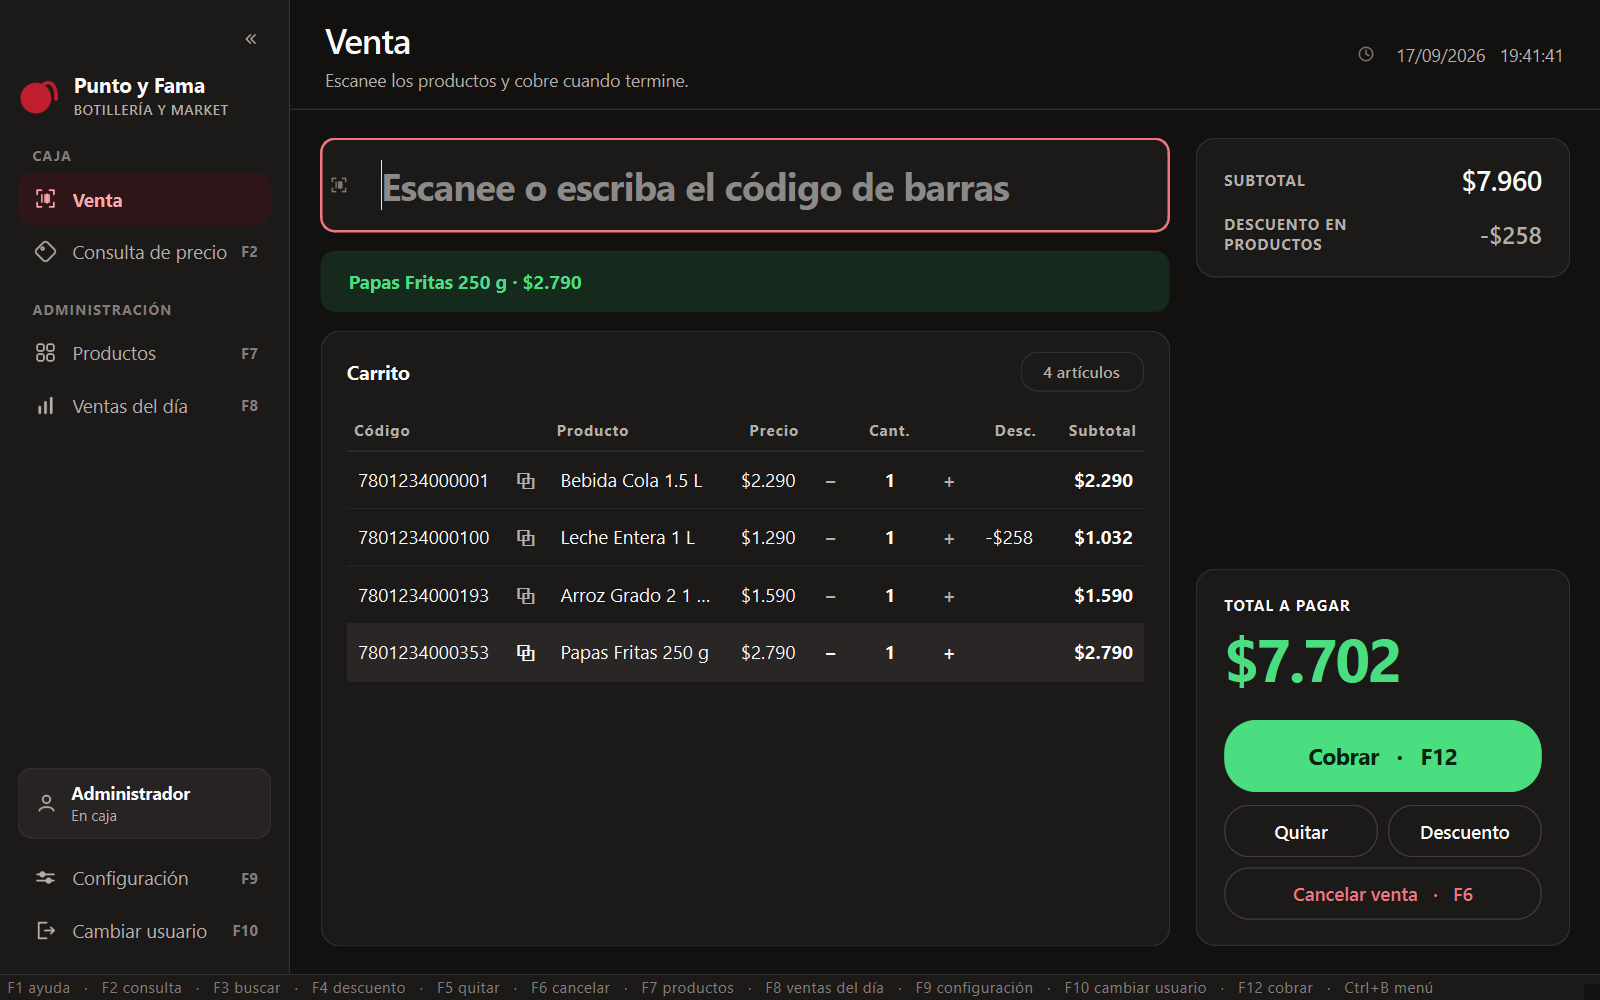
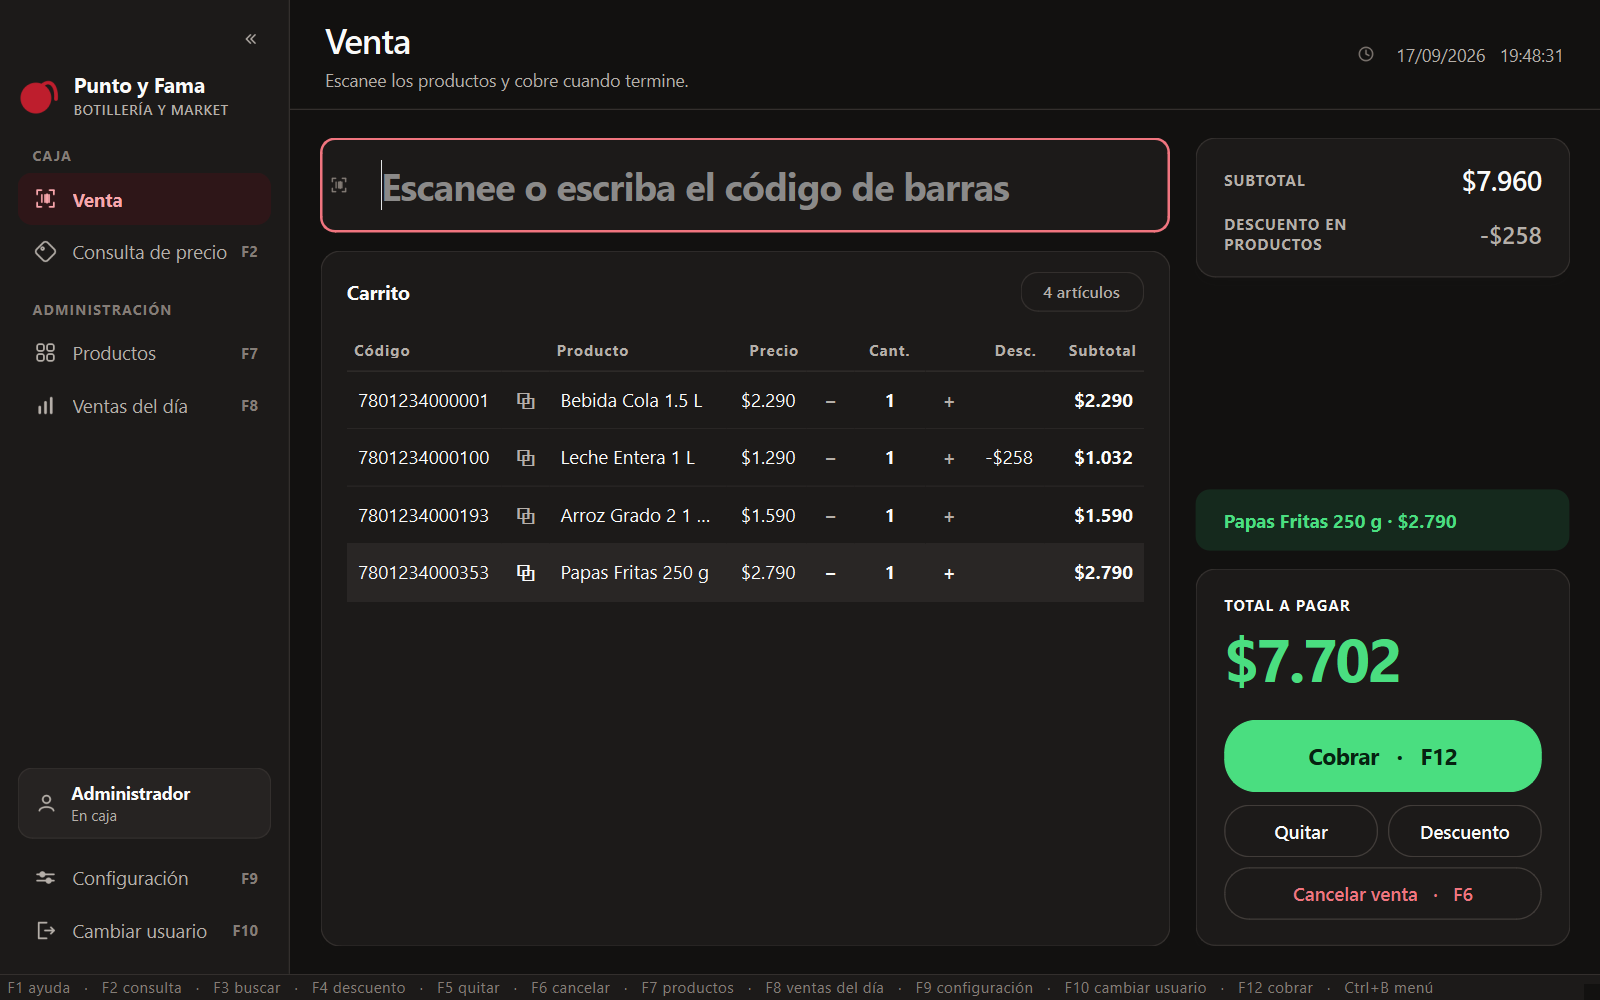
fix(ui): el aviso de escaneo deja de empujar la tabla del carrito
Estaba bajo el campo de escaneo. Al aparecer empujaba el carrito hacia abajo y
al desvanecerse lo subia, asi que la tabla daba un salto en cada producto.

Pasa al hueco de la columna de totales, justo encima del boton de cobrar, donde
crece hacia arriba contra un espacio que ya estaba vacio: no se mueve ni el
carrito ni el boton. De paso queda al lado del total, que es lo otro que el
cajero mira al terminar de pasar un producto.

Lo que se pierde es ancho: un nombre largo ocupa dos lineas.

Se amplia D-028 en lugar de abrir una entrada nueva: es la misma decision sobre
el mismo aviso y todavia sin revisar.

diff --git a/src/tienda_pos/ui/venta_view.py b/src/tienda_pos/ui/venta_view.py
@@ -113,18 +113,6 @@ class VentaView(QWidget):
         columna.setSpacing(14)
 
         columna.addWidget(self._campo_de_escaneo())
-
-        self.mensaje = QLabel()
-        # El id se fija ya en la construcción, y no solo al mostrar un aviso: Qt calcula el
-        # relleno y el radio la primera vez que poliza el widget, y si entonces no hay
-        # ninguna regla por id, el mensaje se queda para siempre pegado al borde. Las dos
-        # variantes comparten geometría, así que alternarlas después solo cambia colores.
-        self.mensaje.setObjectName("mensajeExito")
-        self.mensaje.setWordWrap(True)
-        self.mensaje.hide()
-        self._temporizador_mensaje.timeout.connect(self.mensaje.hide)
-        columna.addWidget(self.mensaje)
-
         columna.addWidget(self._tarjeta_carrito(), stretch=1)
         return contenedor
 
@@ -274,8 +262,33 @@ class VentaView(QWidget):
         self.tarjeta_detalle = self._tarjeta_detalle()
         columna.addWidget(self.tarjeta_detalle)
         columna.addStretch()
+        columna.addWidget(self._aviso())
         columna.addWidget(self._tarjeta_cobro())
         return panel
+
+    def _aviso(self) -> QWidget:
+        """El mensaje que confirma o rechaza cada escaneo.
+
+        Vive en el hueco de esta columna y no bajo el campo de escaneo, que sería su sitio
+        natural, por una razón práctica: ahí abajo empujaba el carrito hacia abajo al
+        aparecer y lo subía al desvanecerse, de modo que la tabla daba un salto en cada
+        producto. Aquí crece hacia arriba contra un espacio que ya estaba vacío, así que ni
+        el carrito ni el botón de cobrar se mueven nunca. De paso queda al lado del total,
+        que es lo otro que el cajero mira al terminar de pasar un producto.
+
+        Se usa un mensaje en línea y no un diálogo porque interrumpir el flujo con una
+        ventana modal por cada producto escaneado haría el sistema inusable.
+        """
+        self.mensaje = QLabel()
+        # El id se fija ya en la construcción, y no solo al mostrar un aviso: Qt calcula el
+        # relleno y el radio la primera vez que poliza el widget, y si entonces no hay
+        # ninguna regla por id, el mensaje se queda para siempre pegado al borde. Las dos
+        # variantes comparten geometría, así que alternarlas después solo cambia colores.
+        self.mensaje.setObjectName("mensajeExito")
+        self.mensaje.setWordWrap(True)
+        self.mensaje.hide()
+        self._temporizador_mensaje.timeout.connect(self.mensaje.hide)
+        return self.mensaje
 
     def _tarjeta_detalle(self) -> QWidget:
         """Lo que se lleva sumado: subtotal y, si lo hay, el descuento.
@@ -922,11 +935,7 @@ class VentaView(QWidget):
                 return
 
     def _avisar(self, texto: str, exito: bool) -> None:
-        """Muestra un mensaje breve bajo el campo de escaneo.
-
-        Se usa un mensaje en línea y no un diálogo porque interrumpir el flujo con una
-        ventana modal por cada producto escaneado haría el sistema inusable.
-        """
+        """Muestra un mensaje breve en la columna de totales. Ver `_aviso`."""
         sonido.exito() if exito else sonido.error()
         self.mensaje.setText(texto)
         self.mensaje.setObjectName("mensajeExito" if exito else "mensajeError")

diff --git a/docs/DECISIONES.md b/docs/DECISIONES.md
@@ -825,6 +825,13 @@ tipo de cosa que hace desconfiar de un sistema en una demostración.
 Ahora hay **un solo temporizador**, propiedad de la vista, que se reinicia en cada aviso. Cinco
 segundos desde el último mensaje, siempre.
 
+**Y el aviso cambia de sitio.** Estaba bajo el campo de escaneo, que es su sitio natural, pero ahí
+empujaba el carrito hacia abajo al aparecer y lo subía al desvanecerse: la tabla daba un salto en
+cada producto. Pasa al hueco de la columna de totales, justo encima del botón de cobrar, donde crece
+hacia arriba contra un espacio que ya estaba vacío. Así **no se mueve nada** —ni el carrito ni el
+botón de cobrar— y de paso el aviso queda al lado del total, que es lo otro que el cajero mira al
+terminar de pasar un producto. Lo que se pierde es ancho: un nombre largo ocupa dos líneas.
+
 **Consecuencias.** Cinco pruebas nuevas: que el detalle aparece con el primer producto y se va al
 cancelar, que el cobro no se mueve con el carrito vacío, que un aviso nuevo reinicia la cuenta atrás
 en lugar de heredarla, y que un error sustituye al aviso de éxito. La suite pasa de 250 a 255.

diff --git a/docs/TECNICA.md b/docs/TECNICA.md
@@ -201,6 +201,9 @@ fuentes del sistema y todo el texto sale como cajas vacías.
 - **Un aviso que se oculta solo usa un temporizador propio y reiniciable**, nunca
   `QTimer.singleShot`. Con `singleShot`, cada aviso deja vivo el temporizador del anterior y
   el mensaje nuevo se esconde cuando le toca al viejo. Ver `venta_view._avisar`.
+- **Nada que aparezca y desaparezca solo puede vivir encima de la tabla del carrito.** Al
+  mostrarse empuja la tabla y al ocultarse la sube, y eso es un salto en cada escaneo. El
+  aviso vive en el hueco de la columna de totales por eso; ver `venta_view._aviso`.
 - **Las sombras son un efecto gráfico**, no una regla de la hoja de estilos: Qt no entiende
   `box-shadow`. `estilos.aplicar_sombra()` las pone, y solo en tarjetas de contenido — sobre
   una tabla que se repinta en cada escaneo cuesta caro.
